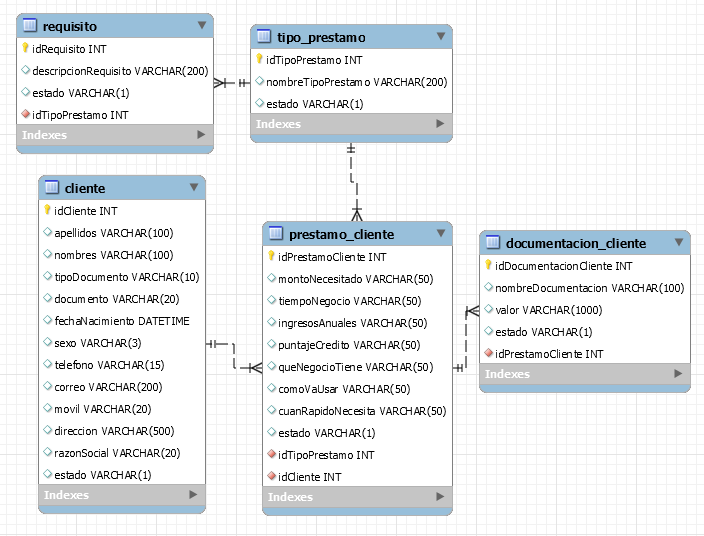
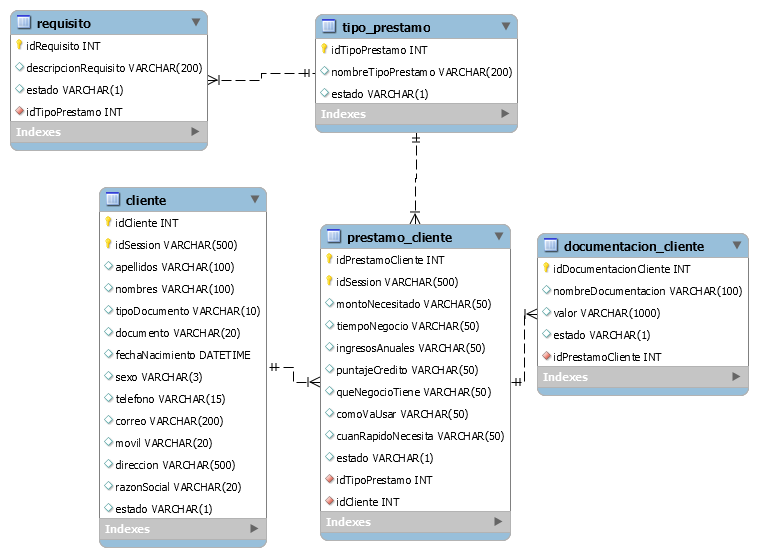
Fullfilment finalizado

diff --git a/back/routes/index.js b/back/routes/index.js
@@ -103,6 +103,12 @@ async function extraerTipoPrestamo(agent) {
 		var response = await request.json();
 		var idTipoPrestamo = response.result[0].idTipoPrestamo;
 		agent.request_.body.queryResult.outputContexts[0].parameters['idTipoPrestamo'] = idTipoPrestamo;
+		const existingContext = agent.context.get("settipoprestamo");
+		agent.context.set({
+			'name': existingContext.name, 
+			'lifespan': 50,
+			'parameters' : {'idTipoPrestamo': idTipoPrestamo}
+		});
 	} catch (error) {
     	// handle error
 		logger.debug(error);
@@ -261,7 +267,17 @@ async function extraerInfoCliente(agent) {
 			response = await saveOrUpdateCliente(sessionId, Cliente);
 			var result = response.result;
 			if (result.affectedRows == 1) {
-				agent.request_.body.queryResult.outputContexts[0].parameters['idCliente'] = result.insertId;
+				if (typeof result.idCliente === "undefined") {
+					idCliente = result.insertId;
+				} else {
+					idCliente = result.idCliente;
+				}
+				const existingContext = agent.context.get("setinformacioncliente");
+				agent.context.set({
+					'name': existingContext.name, 
+					'lifespan': 50,
+					'parameters' : {'idCliente': idCliente}
+				});
 				agent.add('Gracias ' + nombres + " " + apellidos + " por respondernos");
 				agent.add("¿Qué monto necesitas?");
 
@@ -272,34 +288,6 @@ async function extraerInfoCliente(agent) {
 			console.error(error);
 			agent.add("Estamos experimentando problemas, intenta de nuevo por favor.");
 		}
-
-		/*try {			
-			var request = await fetch(urlBase + '/cliente', {
-				method: 'POST',
-				headers: {
-					'Content-Type': 'application/json'
-				},
-				body: JSON.stringify(data)
-			});
-			var response = await request.json();
-			var result = response.result;
-			console.log(result);
-			logger.debug(result);
-
-			if (result.affectedRows == 1) {
-				agent.request_.body.queryResult.outputContexts[0].parameters['idCliente'] = result.insertId;
-				agent.add('Gracias ' + nombres + " " + apellidos + " por respondernos");
-				agent.add("¿Qué monto necesitas?");
-
-				console.log("Datos guardados correctamente.");
-				logger.debug("Datos guardados correctamente.");				
-			}
-
-		} catch (error) {
-			console.error(error);
-			agent.add("Estamos experimentando problemas, intenta de nuevo por favor.");
-		}*/	
-
 	} else {
 		console.log("Sesiones diferentes");
 		logger.debug("Sesiones diferentes");
@@ -337,16 +325,21 @@ async function extraerInfoInicial(agent) {
 		"idCliente": idCliente
 	};
 
+	console.log(TipoPrestamo);
+	logger.debug(TipoPrestamo);
+
 	try {
 		var response = await saveOrUpdatePrestamoCliente(idSession, TipoPrestamo);
 		var result = response.result;
-		console.log(result);
-		logger.debug(result);
+		console.log(response);
+		logger.debug(response);
 
 		if (result.affectedRows == 1) {
 			agent.request_.body.queryResult.outputContexts[0].parameters['idPrestamoCliente'] = result.insertId;
 			agent.add('Gracias por responder las preguntas.');
 			agent.add('Uno de nuestros agentes se contactará contigo a la brevedad posible.');
+		} else {
+			agent.add("Estamos experimentando problemas, intenta de nuevo por favor.");
 		}
 
 	} catch (error) {
@@ -458,8 +451,9 @@ async function saveOrUpdateCliente (idSession, Cliente) {
 	try {		
 		var request = await fetch(urlBase + '/cliente/session/' + idSession);    
 		var response = await request.json();
-
+		console.log(response);
 		if (response.status == "success") {
+			var idCliente = response.result[0].idCliente;
 			var request = await fetch(urlBase + '/cliente/session/' + idSession, {
 				method: 'PUT',
 				headers: {
@@ -468,6 +462,7 @@ async function saveOrUpdateCliente (idSession, Cliente) {
 				body: JSON.stringify(Cliente)
 			});
 			var response = await request.json();
+			response.result.idCliente = idCliente;
 			return response;
 		} else {
 			var request = await fetch(urlBase + '/cliente', {
@@ -488,11 +483,11 @@ async function saveOrUpdateCliente (idSession, Cliente) {
 
 async function saveOrUpdatePrestamoCliente (idSession, PrestamoCliente) {
 	try {		
-		var request = await fetch(urlBase + '/prestamo-cliente/session/' + idSession);    
+		var request = await fetch(urlBase + '/prestamo_cliente/session/' + idSession);    
 		var response = await request.json();
 
 		if (response.status == "success") {
-			var request = await fetch(urlBase + '/prestamo-cliente/session/' + idSession, {
+			var request = await fetch(urlBase + '/prestamo_cliente/session/' + idSession, {
 				method: 'PUT',
 				headers: {
 					'Content-Type': 'application/json'
@@ -502,7 +497,7 @@ async function saveOrUpdatePrestamoCliente (idSession, PrestamoCliente) {
 			var response = await request.json();
 			return response;
 		} else {
-			var request = await fetch(urlBase + '/prestamo-cliente', {
+			var request = await fetch(urlBase + '/prestamo_cliente', {
 				method: 'POST',
 				headers: {
 					'Content-Type': 'application/json'

diff --git a/back/controllers/prestamoClienteController.js b/back/controllers/prestamoClienteController.js
@@ -7,20 +7,17 @@ var prestamoClienteController = {};
 prestamoClienteController.getAll = async function (req, res) {
   try {
     var prestamoCliente = await model.getAll();
-    res.send(
-      {
+    res.send({
         status:'success',
         message: "",
         result: prestamoCliente
-      }
-      
-      );
+      });
     } catch (error) {
       res.status(500).send({
-      status:'error',
-      message: "Ha ocurrido un error",
-      result: error     
-    });  
+        status:'error',
+        message: "Ha ocurrido un error",
+        result: error   
+      });  
     }
 }
 
@@ -123,8 +120,7 @@ prestamoClienteController.getAllByIdTipoPrestamo = async function (req, res) {
           result:[]
         }
       );
-    }else
-    {
+    } else {
       res.status(200).send(
         {
           status:'success',
@@ -176,20 +172,17 @@ prestamoClienteController.create = async function (req, res) {
   var prestamoCliente = req.body;
   try {
     var result = await model.create(prestamoCliente);
-    if(result.affectedRows>0)
-    {
-      res.status(201).send({
-      status:'success',
-      message: "Prestamo Cliente creado correctamente",
-      result:result
-      
-    });   
-    }else
-    {
+    if (result.affectedRows > 0) {
+      res.status(200).send({
+        status:'success',
+        message: "Prestamo Cliente creado correctamente",
+        result:result  
+      });   
+    } else {
         res.status(400).send({
         status:'failed',
         message: "La creación ha fallado",
-        result:[]
+        result: result
         
       });
     }

diff --git a/back/models/prestamoClienteModel.js b/back/models/prestamoClienteModel.js
@@ -78,8 +78,7 @@ prestamocliente.getAllByIdCliente = async function (idCliente) {
 
 prestamocliente.create = async function (prestamocliente) {
     try {        
-        var query = `insert into prestamo_cliente (
-           
+        var query = `insert into prestamo_cliente (           
             montoNecesitado,
             tiempoNegocio,
             ingresosAnuales,
@@ -91,7 +90,6 @@ prestamocliente.create = async function (prestamocliente) {
             idTipoPrestamo,
             idCliente,
             idSession
-
         ) values (
             :montoNecesitado,
             :tiempoNegocio,
@@ -120,11 +118,10 @@ prestamocliente.create = async function (prestamocliente) {
         return result;        
 
     } catch(error) {
+        console.log(error);
         throw new Error(error);
     }
 }
-
-
 
 prestamocliente.updateIdSession = async function (idSession, prestamocliente) {
     try {        
@@ -149,6 +146,7 @@ prestamocliente.updateIdSession = async function (idSession, prestamocliente) {
         });
         return result;
     } catch(error) {
+        console.log(error);
         throw new Error(error);
     }
 }
